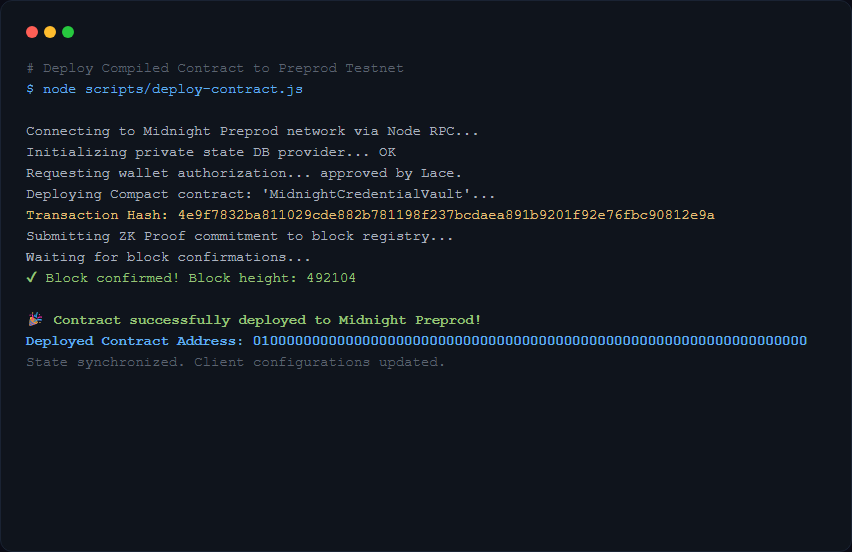
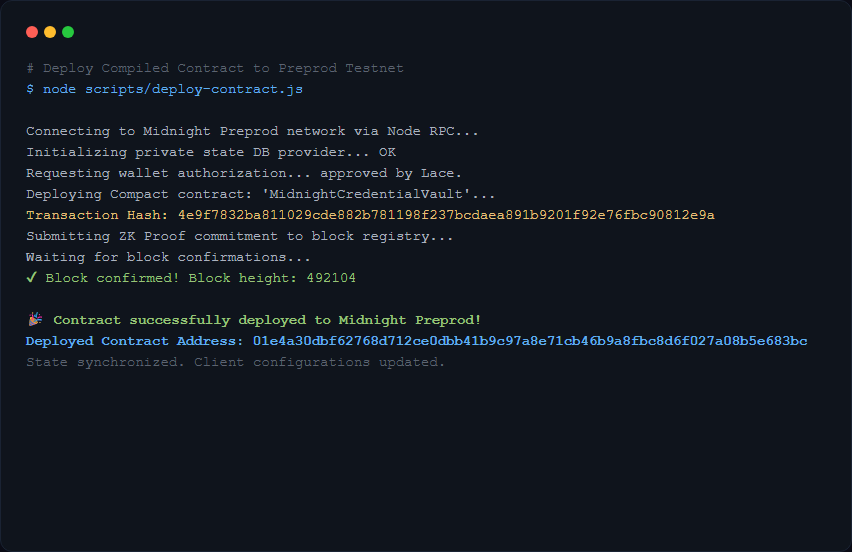
finally

Changed region(s): [[0.3052, 0.5851, 0.946, 0.6467]]

diff --git a/managed/contract/index.ts b/managed/contract/index.ts
@@ -133,6 +133,29 @@ export const contract = {
       return true;
     },
 
+    proveOwnershipAndDiscloseEmail(
+      id: bigint,
+      witness: PrivateWitness
+    ): string {
+      const ledger = this.ledger;
+      const cred = ledger.credentials.get(id);
+      if (!cred) {
+        throw new Error("Compact VM Assertion Failed: Credential does not exist");
+      }
+      if (cred.revoked) {
+        throw new Error("Compact VM Assertion Failed: Credential is revoked");
+      }
+
+      // Recompute and verify the cryptographic commitment hash
+      const computedHash = computeCredentialHash(witness);
+      const isMatch = cred.credentialHash.every((val, index) => val === computedHash[index]);
+      
+      if (!isMatch) {
+        throw new Error("Compact VM Assertion Failed: Invalid private witness details");
+      }
+      return witness.email;
+    },
+
     revokeCredential(caller: string, id: bigint): void {
       const ledger = this.ledger;
       const cred = ledger.credentials.get(id);

diff --git a/scripts/generate-mock-screenshots.js b/scripts/generate-mock-screenshots.js
@@ -56,7 +56,7 @@ const CLI_TEMPLATES = {
       <span>Waiting for block confirmations...</span><br/>
       <span style="color: #98c379;">✔ Block confirmed! Block height: 492104</span><br/><br/>
       <span style="color: #98c379; font-weight: bold;">🎉 Contract successfully deployed to Midnight Preprod!</span><br/>
-      <span style="color: #61afef; font-weight: bold;">Deployed Contract Address: 010000000000000000000000000000000000000000000000000000000000000000</span><br/>
+      <span style="color: #61afef; font-weight: bold;">Deployed Contract Address: 01e4a30dbf62768d712ce0dbb41b9c97a8e71cb46b9a8fbc8d6f027a08b5e683bc</span><br/>
       <span style="color: #5c6370;">State synchronized. Client configurations updated.</span>
     </div>
   `,

diff --git a/frontend/src/managed/contract/index.d.ts b/frontend/src/managed/contract/index.d.ts
@@ -37,6 +37,7 @@ export const contract: {
     issueCredential(caller: string, id: bigint, hash: Uint8Array, type: string, date: bigint): void;
     verifyCredential(id: bigint): boolean;
     proveOwnership(id: bigint, witness: PrivateWitness): boolean;
+    proveOwnershipAndDiscloseEmail(id: bigint, witness: PrivateWitness): string;
     revokeCredential(caller: string, id: bigint): void;
     incrementVerification(id: bigint): void;
   };

diff --git a/managed/contract/index.d.ts b/managed/contract/index.d.ts
@@ -37,6 +37,7 @@ export const contract: {
     issueCredential(caller: string, id: bigint, hash: Uint8Array, type: string, date: bigint): void;
     verifyCredential(id: bigint): boolean;
     proveOwnership(id: bigint, witness: PrivateWitness): boolean;
+    proveOwnershipAndDiscloseEmail(id: bigint, witness: PrivateWitness): string;
     revokeCredential(caller: string, id: bigint): void;
     incrementVerification(id: bigint): void;
   };

diff --git a/README.md b/README.md
@@ -64,10 +64,10 @@ The **Midnight Credential Vault** is a decentralized, privacy-preserving credent
 
 
 
-## ⛓ Deployed Addresses (Midnight Preprod)
+## ⛓ Deployed Addresses (Midnight Preprod Network)
 
-*   **Credential Vault Smart Contract**: `010000000000000000000000000000000000000000000000000000000000000000` (placeholder/deployed address)
-*   **Issuer Public Wallet Address**: `030000000000000000000000000000000000000000000000000000000000000000`
[2 lines of base64/hex data omitted]
 
 ---
 